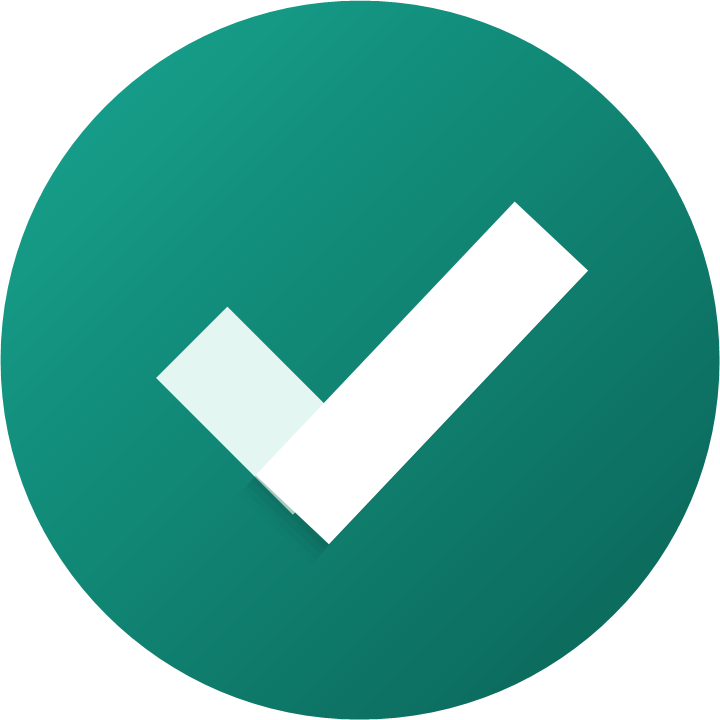
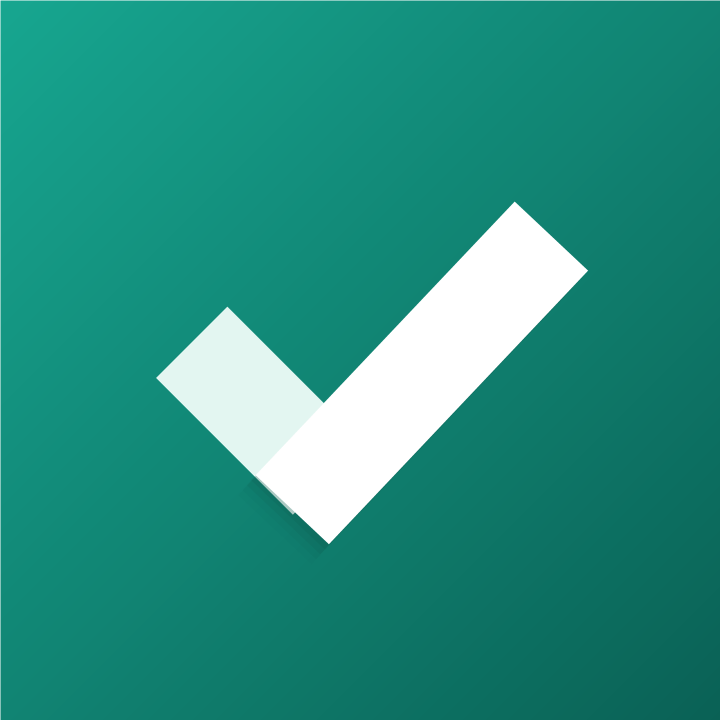
web v2.4.2 (tu kho myWork)

diff --git a/index.html b/index.html
@@ -6,9 +6,8 @@
 <title>myWork</title>
 <!-- (v2.4.1) logo kiểu B: tab trình duyệt + màn hình chính điện thoại (vẽ bằng tools/tao-icon.ps1) -->
 <link rel="icon" type="image/svg+xml" href="logo.svg">
-<link rel="icon" type="image/png" sizes="192x192" href="icon-192.png">
-<link rel="apple-touch-icon" href="icon-180.png">
-<link rel="manifest" href="manifest.json">
+<link rel="apple-touch-icon" href="icon-180.png?v=2"><!-- (v2.4.2) ảnh VUÔNG phủ kín: iOS tô góc trong suốt thành đen -->
+<link rel="manifest" href="manifest.json?v=2">
 <meta name="theme-color" content="#0E7C6E">
 <meta name="apple-mobile-web-app-title" content="myWork">
 <link rel="preconnect" href="https://fonts.googleapis.com">
